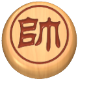
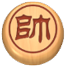
更新了所有棋子图片，清晰度提高。绝杀算法优化。

diff --git a/CustomClass/QiZi.xaml b/CustomClass/QiZi.xaml
@@ -5,7 +5,7 @@
              xmlns:d="http://schemas.microsoft.com/expression/blend/2008" 
              xmlns:local="clr-namespace:Chess"
              mc:Ignorable="d" 
-             d:DesignHeight="70" d:DesignWidth="70" RenderTransformOrigin="0.5,0.5">
+             d:DesignHeight="70" d:DesignWidth="70" RenderTransformOrigin="0.5,0.5" Width="66" Height="66">
     <UserControl.Resources>
         <TransformGroup x:Key="UserControlRenderTransform1">
             <ScaleTransform ScaleX="1"/>
@@ -15,22 +15,22 @@
         </TransformGroup>
     </UserControl.Resources>
     <Grid RenderTransform="{DynamicResource UserControlRenderTransform1}" x:Name="MaingGrid" MouseLeftButtonUp="Image_MouseLeftButtonUp">
-        <Image x:Name="qzimage"  HorizontalAlignment="Left" Height="70" VerticalAlignment="Top" Width="70" Stretch="Uniform" Panel.ZIndex="5" RenderTransform="{DynamicResource UserControlRenderTransform1}">
+        <Image x:Name="qzimage"  HorizontalAlignment="Stretch" Height="66" VerticalAlignment="Stretch" Width="66" Stretch="Uniform" Panel.ZIndex="5" RenderTransform="{DynamicResource UserControlRenderTransform1}">
             <Image.Effect>
                 <DropShadowEffect x:Name="qzShadow" ShadowDepth="8" BlurRadius="10" Opacity="0.6"/>
             </Image.Effect>
         </Image>
-        <Image x:Name="yuxuankuang" HorizontalAlignment="Left" Height="70" VerticalAlignment="Top" Width="70" Source="/picture/预选框.png" Panel.ZIndex="2" Stretch="Uniform" RenderTransformOrigin="0.5,0.5" RenderTransform="{DynamicResource UserControlRenderTransform1}" Visibility="Hidden">
+        <Image x:Name="yuxuankuang" HorizontalAlignment="Stretch" Height="66" VerticalAlignment="Stretch" Width="66" Source="/picture/预选框.png" Panel.ZIndex="2" Stretch="Uniform" RenderTransformOrigin="0.5,0.5" RenderTransform="{DynamicResource UserControlRenderTransform1}" Visibility="Hidden">
             <Image.Effect>
                 <DropShadowEffect Opacity="0.6" ShadowDepth="5"/>
             </Image.Effect>
         </Image>
-        <Image x:Name="yuanweizhi" Stretch="Uniform" Source="/picture/原位置.png" HorizontalAlignment="Left" VerticalAlignment="Top" IsEnabled="False" Visibility="Hidden">
+        <Image x:Name="yuanweizhi" Stretch="Uniform" Source="/picture/原位置.png" HorizontalAlignment="Stretch" VerticalAlignment="Stretch" IsEnabled="False" Visibility="Hidden" Width="66" Height="66">
             <Image.Effect>
                 <DropShadowEffect Opacity="0.4" ShadowDepth="5"/>
             </Image.Effect>
         </Image>
-        <d:Image HorizontalAlignment="Left" VerticalAlignment="Top" Source="/picture/红帅.png">
+        <d:Image HorizontalAlignment="Stretch" VerticalAlignment="Stretch" Source="/picture/红帅.png" Visibility="Visible" Width="66" Height="66">
             <Image.Effect>
                 <DropShadowEffect/>
             </Image.Effect>

diff --git a/CustomClass/PathPoint.xaml b/CustomClass/PathPoint.xaml
@@ -7,7 +7,11 @@
              mc:Ignorable="d" 
              d:DesignHeight="60" d:DesignWidth="60">
     <Grid HorizontalAlignment="Center" VerticalAlignment="Center" Width="60" Height="60">
-        <Image x:Name="image" Source="/picture/路径点.png" HorizontalAlignment="Center" VerticalAlignment="Center" Stretch="UniformToFill" Panel.ZIndex="5" MouseEnter="OnMouseEnter" MouseLeave="OnMouseLeave" RenderTransformOrigin="0.5,0.5" MouseUp="OnMouseup"/>
+        <Image x:Name="image" HorizontalAlignment="Center" VerticalAlignment="Center" Stretch="UniformToFill" Panel.ZIndex="5" MouseEnter="OnMouseEnter" MouseLeave="OnMouseLeave" RenderTransformOrigin="0.5,0.5" MouseUp="OnMouseup" Source="/picture/路径点.png">
+            <Image.Effect>
+                <DropShadowEffect ShadowDepth="2" BlurRadius="2" Opacity="0.7" Color="#FF3C3C3C"/>
+            </Image.Effect>
+        </Image>
 
 
     </Grid>

diff --git a/SuanFa/JiangJun.cs b/SuanFa/JiangJun.cs
@@ -98,7 +98,7 @@ namespace Chess.SuanFa // 算法
             if (MoveQizi < 16) jiangjun = IsJiangJun(16); // 检查红帅是否被将军。
             if (MoveQizi >= 16) jiangjun = IsJiangJun(0); // 检查黑将是否被将军
             GlobalValue.JiangJunTiShi.Content = "战况"; // 在棋盘上部用文字显示棋局状态，主要用于调试，后期可优化为图像模式
-            if (jiangjun[0]==-1) return false;  // 没有被将军时，则不需检测是否绝杀
+            if (jiangjun[0] == -1) return false;  // 没有被将军时，则不需检测是否绝杀
             string GJqizi1; // 第一个攻击棋子的名字
             if (jiangjun[1] != -1) GJqizi1 = GlobalValue.QiZiImageFileName[jiangjun[1]]; else GJqizi1 = "";
             string GJqizi2; // 第二个攻击棋子的名字
@@ -198,6 +198,174 @@ namespace Chess.SuanFa // 算法
             int HeiJiangRow = GlobalValue.QiZiArray[0].Row;
             int HongShuaiCol = GlobalValue.QiZiArray[16].Col;
             int HongShuaiRow = GlobalValue.QiZiArray[16].Row;
+
+            #region 如果是炮将军时，查找炮与将帅之间的被将军方的棋子，如可移开，则解杀
+            switch (GJqizi)  // 如果是炮将军时，查找炮与将帅之间的被将军方的棋子，如可移开，则解杀
+            {
+                case 9:
+                case 10: // 攻击棋子为黑方炮(9,10)，查找黑炮与红帅之间的红方棋子，如可移开，则解杀
+                    int findCol = -1;
+                    int findRow = -1;
+                    if (GJqiziCol == HongShuaiCol) // 攻击方向为纵向
+                    {
+                        if (GJqiziRow < HongShuaiRow) // 从上方攻击
+                        {
+                            for (int row = GJqiziRow + 1; row < HongShuaiRow; row++)
+                            {
+                                if (GlobalValue.QiPan[GJqiziCol, row] is > 16 and < 32)
+                                {
+                                    findCol = GJqiziCol;
+                                    findRow = row;
+                                    break;
+                                }
+                            }
+                        }
+                        else // 从下方攻击
+                        {
+                            for (int row = HongShuaiRow + 1; row < GJqiziRow; row++)
+                            {
+                                if (GlobalValue.QiPan[GJqiziCol, row] is > 16 and < 32)
+                                {
+                                    findCol = GJqiziCol;
+                                    findRow = row;
+                                    break;
+                                }
+                            }
+                        }
+                    }
+                    if (findCol == -1 || findRow == -1) break;
+                    bool[,] points = MoveCheck.GetPathPoints(GlobalValue.QiPan[findCol, findRow], GlobalValue.QiPan);
+                    for (int i = 0; i < 9; i++)
+                    {
+                        for (int j = 0; j < 10; j++)
+                        {
+                            if (points[i, j] == true && i != GJqiziCol) return true; // 如果本方棋子可从对方炮的攻击线路上移开，则解杀
+                        }
+                    }
+                    findCol = -1;
+                    findRow = -1;
+                    if (GJqiziRow == HongShuaiRow) // 攻击方向为横向
+                    {
+                        if (GJqiziCol < HongShuaiCol) // 从左方攻击
+                        {
+                            for (int col = GJqiziCol + 1; col < HongShuaiCol; col++)
+                            {
+                                if (GlobalValue.QiPan[col, GJqiziRow] is > 16 and < 32)
+                                {
+                                    findCol = col;
+                                    findRow = GJqiziRow;
+                                    break;
+                                }
+                            }
+                        }
+                        else // 从右方攻击
+                        {
+                            for (int col = HongShuaiCol + 1; col < GJqiziCol; col++)
+                            {
+                                if (GlobalValue.QiPan[col, GJqiziRow] is > 16 and < 32)
+                                {
+                                    findCol = col;
+                                    findRow = GJqiziRow;
+                                    break;
+                                }
+                            }
+                        }
+                    }
+                    if (findCol == -1 || findRow == -1) break;
+                    points = MoveCheck.GetPathPoints(GlobalValue.QiPan[findCol, findRow], GlobalValue.QiPan);
+                    for (int i = 0; i < 9; i++)
+                    {
+                        for (int j = 0; j < 10; j++)
+                        {
+                            if (points[i, j] == true && j != GJqiziRow) return true;
+                        }
+                    }
+                    break;
+                    
+                case 25:
+                case 26:    //  攻击棋子为红方炮(25,26)，查找红炮与黑将之间的黑方棋子，如可移开，则解杀
+                    findCol = -1;
+                    findRow = -1;
+                    if (GJqiziCol == HeiJiangCol) // 攻击方向为纵向
+                    {
+                        if (GJqiziRow < HeiJiangRow) // 从上方攻击
+                        {
+                            for (int row = GJqiziRow + 1; row < HeiJiangRow; row++)
+                            {
+                                if (GlobalValue.QiPan[GJqiziCol, row] is > 0 and < 16)
+                                {
+                                    findCol = GJqiziCol;
+                                    findRow = row;
+                                    break;
+                                }
+                            }
+                        }
+                        else // 从下方攻击
+                        {
+                            for (int row = HeiJiangRow + 1; row < GJqiziRow; row++)
+                            {
+                                if (GlobalValue.QiPan[GJqiziCol, row] is > 0 and < 16)
+                                {
+                                    findCol = GJqiziCol;
+                                    findRow = row;
+                                    break;
+                                }
+                            }
+                        }
+                    }
+                    if (findCol == -1 || findRow == -1) break;
+                    points = MoveCheck.GetPathPoints(GlobalValue.QiPan[findCol, findRow], GlobalValue.QiPan);
+                    for (int i = 0; i < 9; i++)
+                    {
+                        for (int j = 0; j < 10; j++)
+                        {
+                            if (points[i, j] == true && i != GJqiziCol) return true;
+                        }
+                    }
+                    findCol = -1;
+                    findRow = -1;
+                    if (GJqiziRow == HeiJiangRow) // 攻击方向为横向
+                    {
+                        if (GJqiziCol < HeiJiangCol) // 从左方攻击
+                        {
+                            for (int col = GJqiziCol + 1; col < HeiJiangCol; col++)
+                            {
+                                if (GlobalValue.QiPan[col, GJqiziRow] is > 0 and < 16)
+                                {
+                                    findCol = col;
+                                    findRow = GJqiziRow;
+                                    break;
+                                }
+                            }
+                        }
+                        else // 从右方攻击
+                        {
+                            for (int col = HeiJiangCol + 1; col < GJqiziCol; col++)
+                            {
+                                if (GlobalValue.QiPan[col, GJqiziRow] is > 0 and < 16)
+                                {
+                                    findCol = col;
+                                    findRow = GJqiziRow;
+                                    break;
+                                }
+                            }
+                        }
+                    }
+                    if (findCol == -1 || findRow == -1) break;
+                    points = MoveCheck.GetPathPoints(GlobalValue.QiPan[findCol, findRow], GlobalValue.QiPan);
+                    for (int i = 0; i < 9; i++)
+                    {
+                        for (int j = 0; j < 10; j++)
+                        {
+                            if (points[i, j] == true && j != GJqiziRow) return true;
+                        }
+                    }
+                    break;
+                default:
+                    break;
+            }
+            #endregion
+
             ArrayList JieShaPoints = new ArrayList(); // 可解除攻击的点位
 
             #region  根据发起将军棋子的位置，以及被将军的将帅的位置，计算所有可解除将军的点位，存放到数组列表JieShaPoints中，以备进一步分析
@@ -326,7 +494,7 @@ namespace Chess.SuanFa // 算法
                     break;
             }
             #endregion
-            
+
             //if (JieShaPoints.Count == 0) return false;  // 不存在可以解除攻击的点位，则不能解杀。估计不存在这个情况。
             bool[,] thispoints;
             for (int i = 0; i < 9; i++)

diff --git a/CustomClass/PathPoint.xaml.cs b/CustomClass/PathPoint.xaml.cs
@@ -66,8 +66,8 @@ namespace Chess
                 x = 8 - x;
                 y = 9 - y;
             }
-            SetValue(Canvas.LeftProperty, GlobalValue.QiPanGrid_X[x] - GlobalValue.GRID_WIDTH / 2 + 5.0);
-            SetValue(Canvas.TopProperty, GlobalValue.QiPanGrid_Y[y] - GlobalValue.GRID_WIDTH / 2 + 5.0);
+            SetValue(Canvas.LeftProperty, GlobalValue.QiPanGrid_X[x] - 30);
+            SetValue(Canvas.TopProperty, GlobalValue.QiPanGrid_Y[y] - 30);
         }
         public void FanZhuPosition()
         {
@@ -81,7 +81,7 @@ namespace Chess
         /// <param name="e"></param>
         private void OnMouseEnter(object sender, MouseEventArgs e)
         {
-            image.SetValue(EffectProperty, new DropShadowEffect() { ShadowDepth = 3, Opacity = 0.7 });
+            image.SetValue(EffectProperty, new DropShadowEffect() { ShadowDepth = 4, Opacity = 0.7 });
         }
 
         /// <summary>
@@ -91,7 +91,7 @@ namespace Chess
         /// <param name="e"></param>
         private void OnMouseLeave(object sender, MouseEventArgs e)
         {
-            image.SetValue(EffectProperty, null);
+            image.SetValue(EffectProperty, new DropShadowEffect() { ShadowDepth = 2, Opacity = 0.7 });
         }
 
         /// <summary>

diff --git a/CustomClass/QiZi.xaml.cs b/CustomClass/QiZi.xaml.cs
@@ -135,8 +135,8 @@ namespace Chess
                 x = 8 - x;
                 y = 9 - y;
             }
-            SetValue(Canvas.LeftProperty, GlobalValue.QiPanGrid_X[x] - GlobalValue.GRID_WIDTH / 2);
-            SetValue(Canvas.TopProperty, GlobalValue.QiPanGrid_Y[y] - GlobalValue.GRID_WIDTH / 2);
+            SetValue(Canvas.LeftProperty, GlobalValue.QiPanGrid_X[x] - 33);
+            SetValue(Canvas.TopProperty, GlobalValue.QiPanGrid_Y[y] - 33);
             qzimage.SetValue(EffectProperty, new DropShadowEffect() { ShadowDepth = 8, BlurRadius = 10, Opacity = 0.6 });
             return true;
 

diff --git a/SuanFa/MoveCheck.cs b/SuanFa/MoveCheck.cs
@@ -58,7 +58,7 @@ namespace Chess.SuanFa // 算法
             {
                 return points;
             }
-            if (GlobalValue.QiZiArray[MoveQiZi].Visibility == System.Windows.Visibility.Hidden) return points;
+            if (GlobalValue.QiZiArray[MoveQiZi].Visibility != System.Windows.Visibility.Visible) return points;
             int MoveQiZi_Col = GlobalValue.QiZiArray[MoveQiZi].Col;
             int MoveQiZi_Row = GlobalValue.QiZiArray[MoveQiZi].Row;
             int side = 0;

diff --git a/README.md b/README.md
@@ -1,4 +1,4 @@
-# Chess
+# Chess 中国象棋软件设计
 
 #### 介绍
 喜欢象棋，也喜欢编程，所以，有了这个象棋软件。
